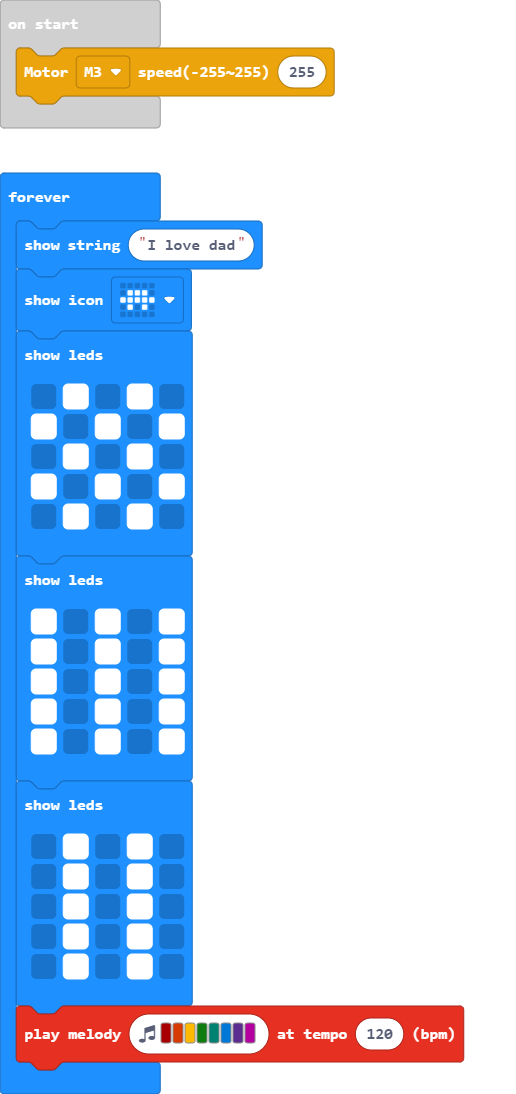
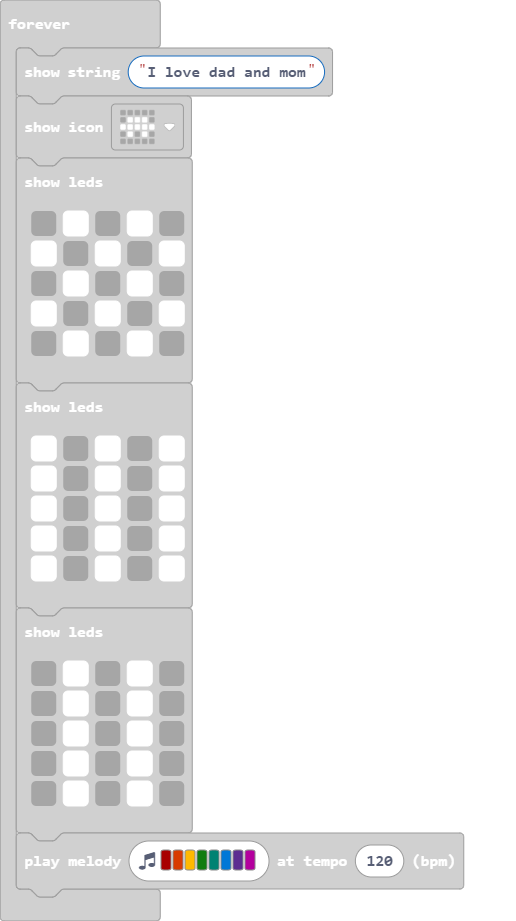
Update main.blocks, main.ts

diff --git a/main.ts b/main.ts
@@ -1,6 +1,6 @@
 SuperBit.MotorRun(SuperBit.enMotors.M3, 255)
 basic.forever(function () {
-    basic.showString("I love dad")
+    basic.showString("I love dad and mom")
     basic.showIcon(IconNames.Tortoise)
     basic.showLeds(`
         . # . # .
